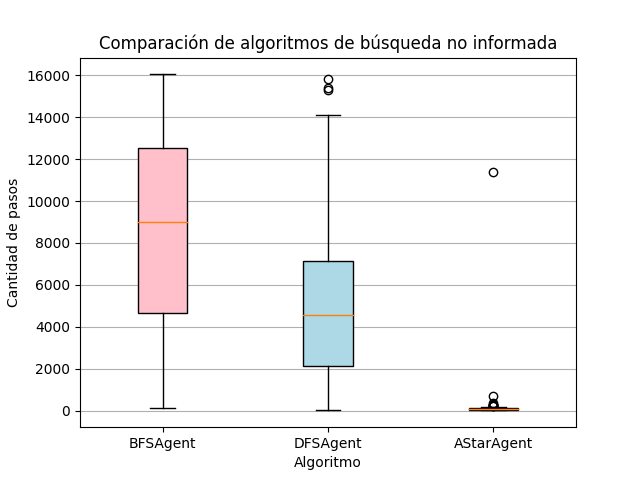
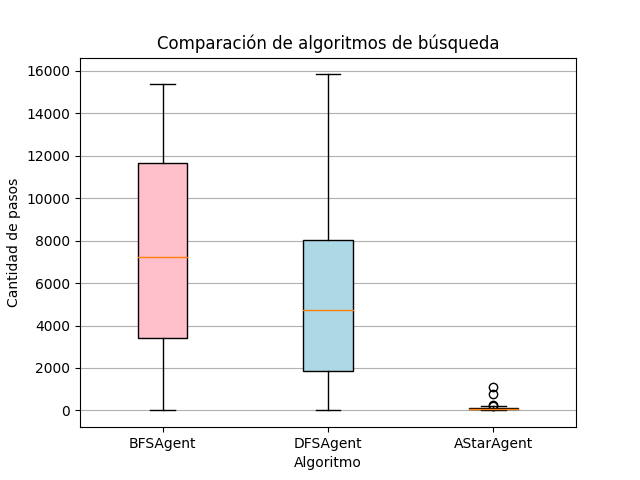
hotfix: update graph plot name

diff --git a/tp4-busqueda-informada/code/resultoptions.py b/tp4-busqueda-informada/code/resultoptions.py
@@ -8,7 +8,7 @@ def boxplot(results):
 
     fig, ax = plt.subplots()
     bplot = ax.boxplot(data, vert=True, labels=labels, patch_artist=True)
-    ax.set_title('Comparación de algoritmos de búsqueda no informada')
+    ax.set_title('Comparación de algoritmos de búsqueda')
     ax.set_ylabel('Cantidad de pasos')
     ax.set_xlabel('Algoritmo')
     ax.yaxis.grid(True)
